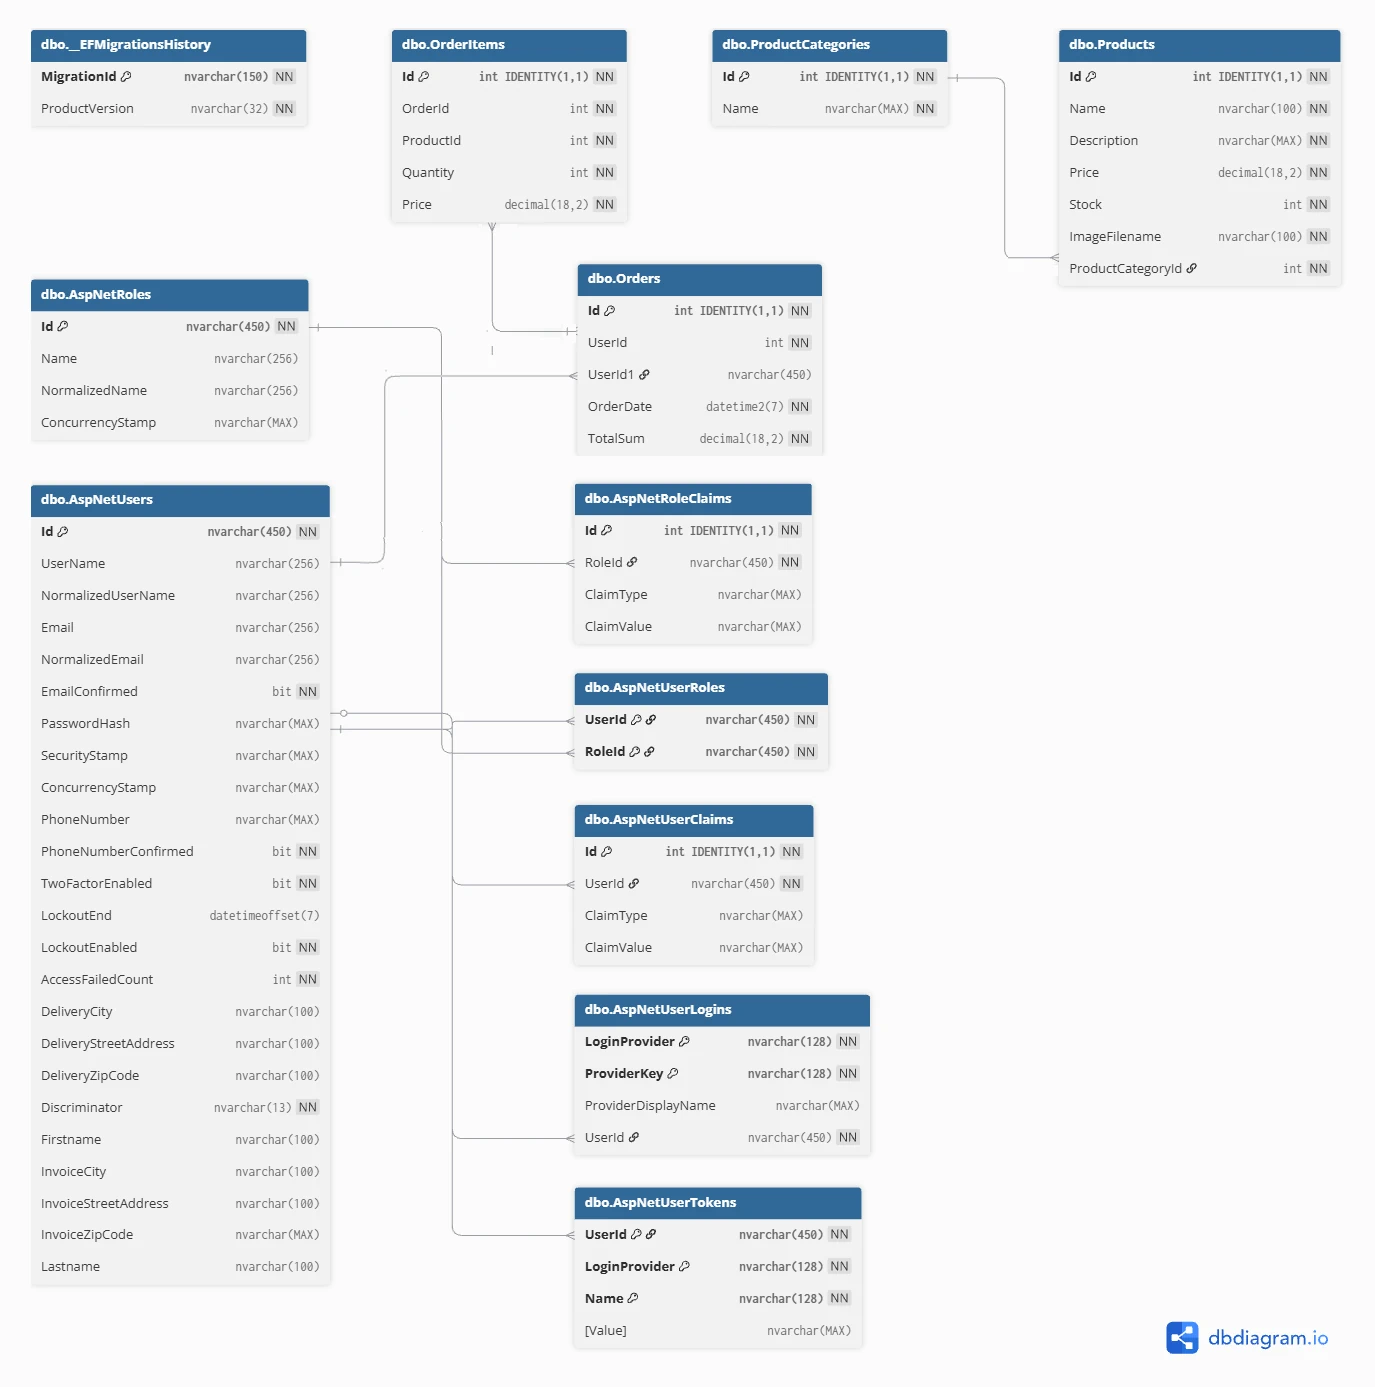
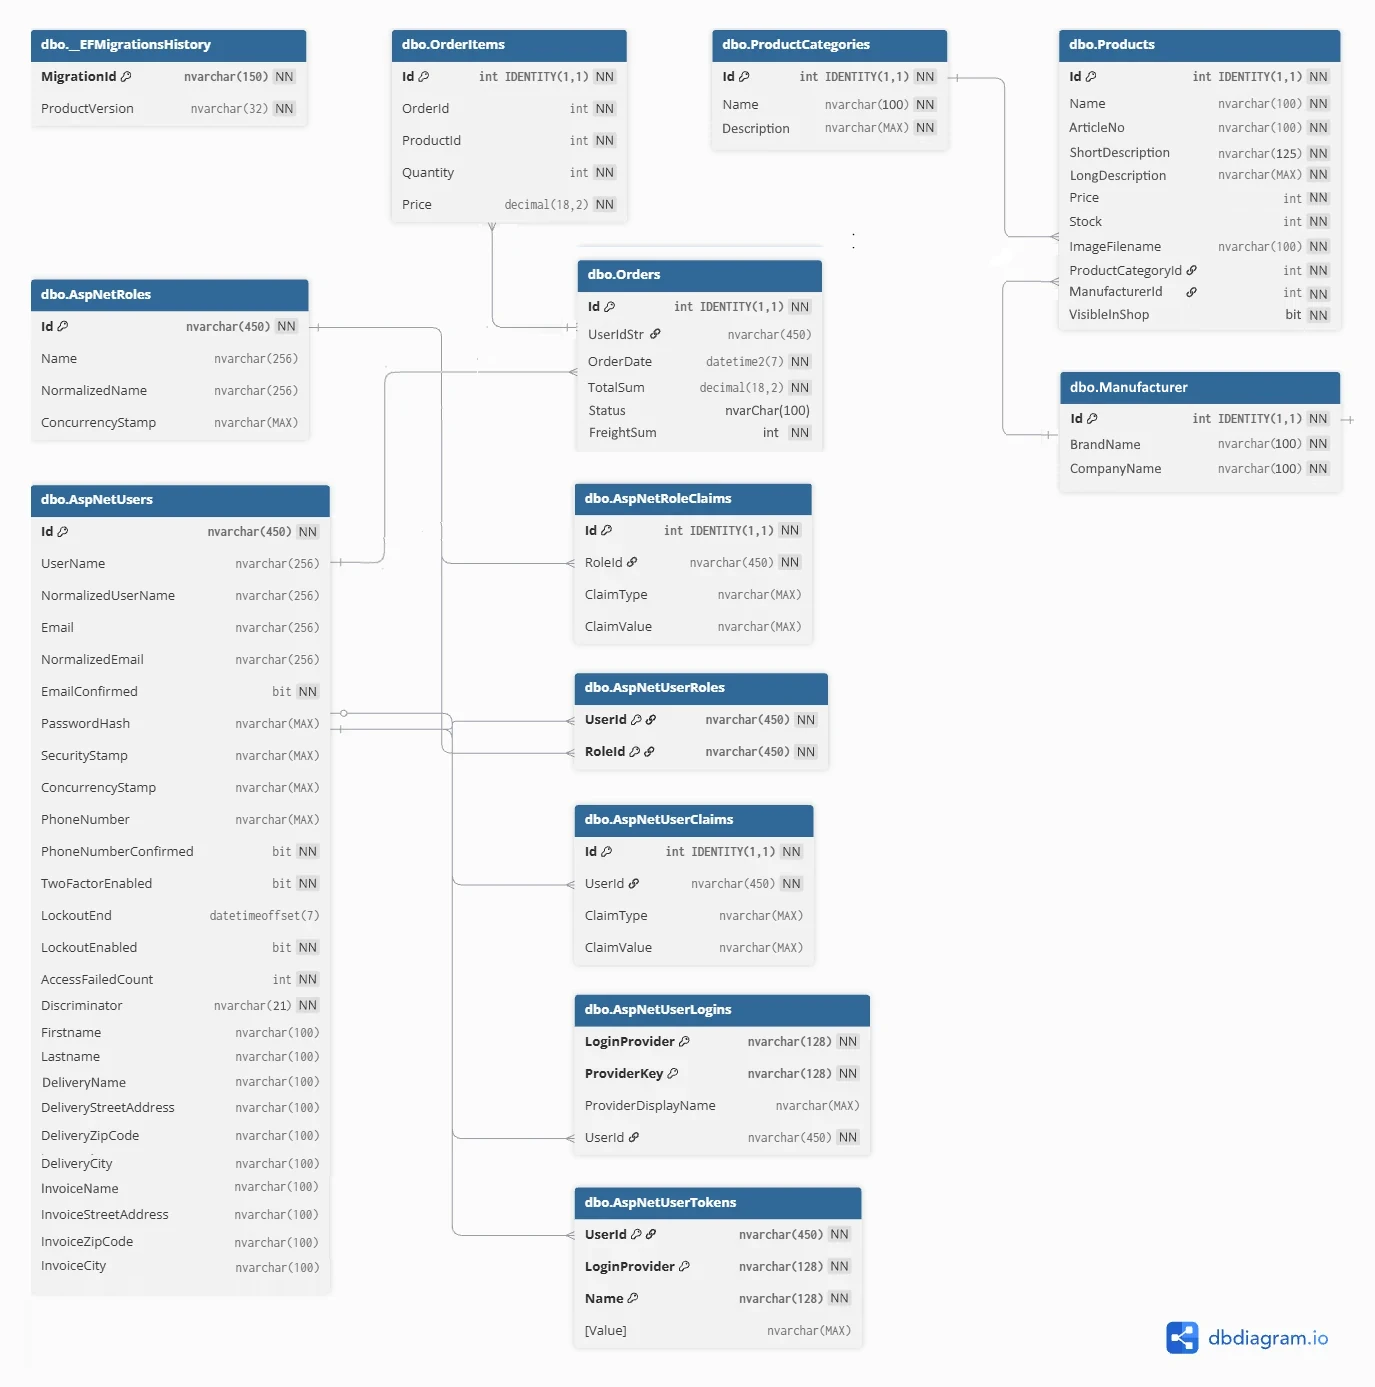
Eleventh commit

diff --git a/wwwroot/css/site.css b/wwwroot/css/site.css
@@ -21,7 +21,12 @@ header, .footer {
     padding: 0 30px 10px;
 }
 
-.adminPage, .shopPage{
+.p-tag-homeIndex {
+    font-size: 18px; 
+    max-width: 600px;
+}
+
+.adminPage, .shopPage {
     padding: 25px 20px 0;
     clear: both;
 }
@@ -269,7 +274,10 @@ body {
     .ManageProfile .profile-div, .ManageProfile #update-profile-button {
         width: 380px !important;
     }
-}
+
+    .p-tag-homeIndex {
+        font-size: 17px;
+    }
 
 
 

diff --git a/Program.cs b/Program.cs
@@ -78,10 +78,10 @@ namespace LexiElectronics
             {
                 var appDbContext = scope.ServiceProvider.GetRequiredService<ApplicationDbContext>();
 
-                if (!appDbContext.Users.Any())
-                {
-                    appDbContext.Database.Migrate();
+                appDbContext.Database.Migrate();
 
+                if (!appDbContext.Users.Any())
+                {                
                     var scriptPath = "./Arkiv/LexiElectronics.data.sql";
 
                     var sqlScript = File.ReadAllText(scriptPath);